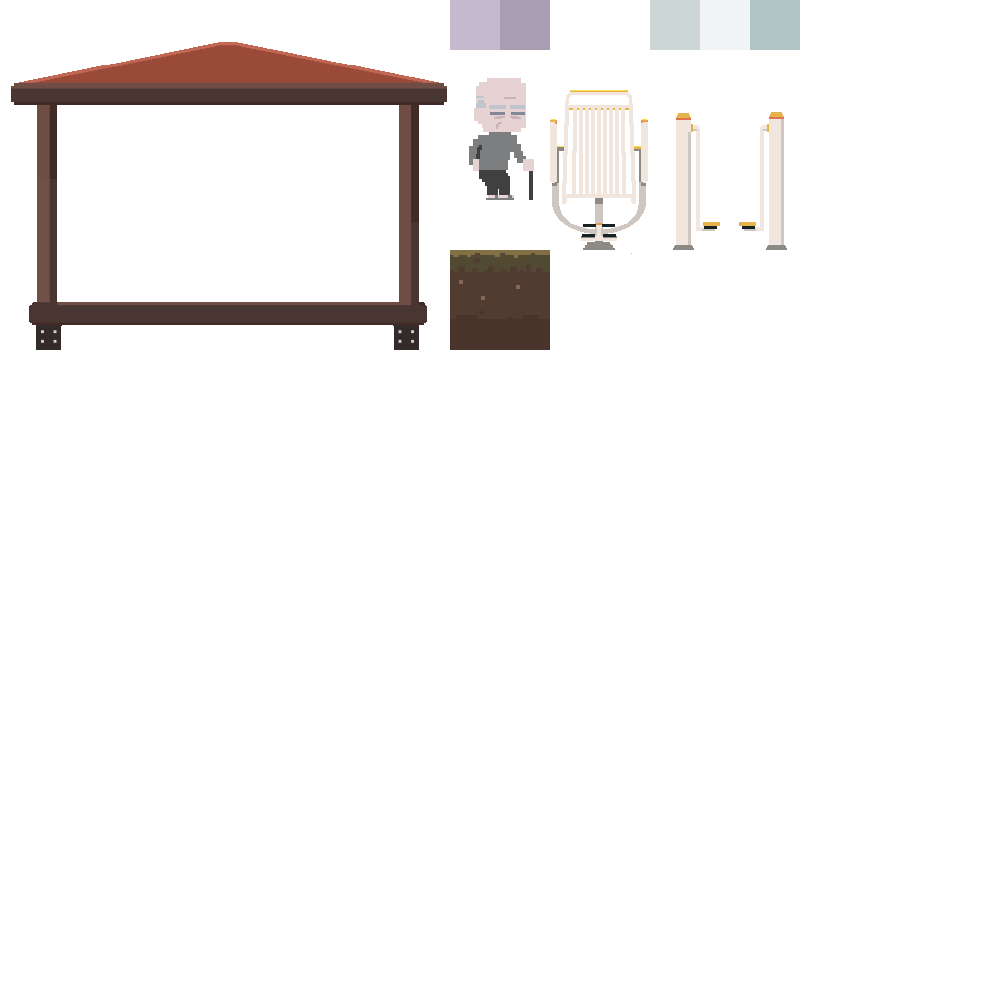
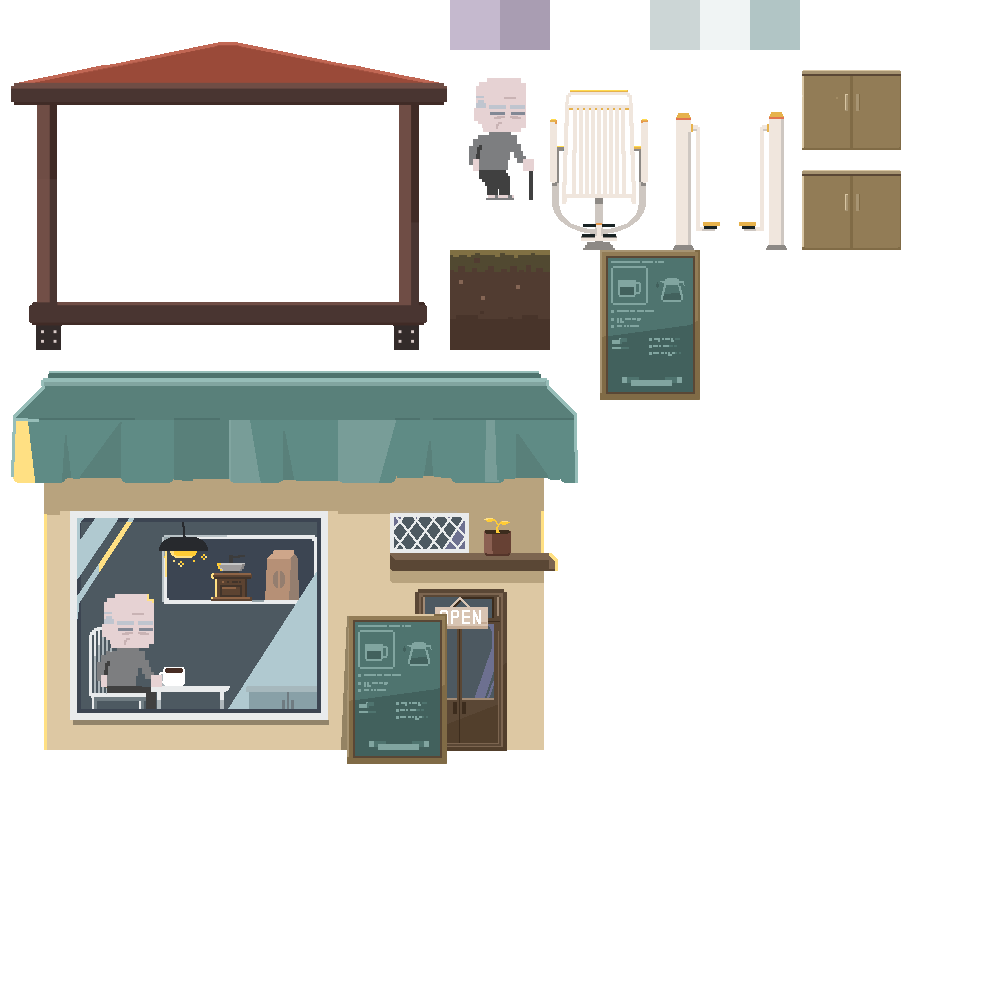
stage2 npc이동모션 추가해야함

Changed region(s): [[0.0, 0.372, 0.589, 0.775], [0.775, 0.062, 0.899, 0.248], [0.589, 0.248, 0.713, 0.403]]

diff --git a/assets/js/stages/SecondStage.js b/assets/js/stages/SecondStage.js
@@ -46,9 +46,17 @@ export default class SecondStage extends Phaser.Scene {
         this.worldLayer = map.createLayer("background", tileset, 0, 0);// Parameters: layer name (or index) from Tiled, tileset, x, y
         this.deco = map.createLayer("deco", tileset, 0, 0);
 
-        /*** npc_old 불러오기 ***/ 
-        this.npc_old = this.add.image(550,280,'npc7').setOrigin(0,0);
-        this.npc_old.setInteractive();
+        /*** 카페 이미지 불러오기 (코드 실행 후 나오는 카페) */
+        this.cafe = this.add.image(447,114,'cafe').setOrigin(0,0)
+        this.cafe.setVisible(false);
+
+
+        /*** npc 불러오기 ***/ 
+        this.npc = this.add.image(850,380,'npc7').setOrigin(0,0);
+      //  this.npc_old.setVisible(false);
+        this.npc.setInteractive();
+        this.npc_hot = this.add.image(750,380,'npc_hot').setOrigin(0,0);
+        this.npc_cold = this.add.image(650,380,'npc_cold').setOrigin(0,0);
 
         /***스폰 포인트 설정하기 locate spawn point***/
         const spawnPoint = map.findObject("spawn", obj => obj.name === "spawn_point");
@@ -79,7 +87,7 @@ export default class SecondStage extends Phaser.Scene {
             hideOnComplete: true
         });
         
-        this.exclamMark = this.add.sprite( 390, 220, 'exp_exclam', 0);
+        this.exclamMark = this.add.sprite( 550, 320, 'exp_exclam', 0);
         this.exclamMark.setVisible(false);
 
         /*** 명령창 불러오기 ***/
@@ -122,19 +130,30 @@ export default class SecondStage extends Phaser.Scene {
 
     update() {
         this.contenttext = 
-            "#include <stdio.h> \n int main(){ \n\nint myage = 29; if () \n}" 
+            "2_#include <stdio.h> \n\nint main(){ \n\n  int Temp = 45;\n  if (Temp>30){\n" +
+            "    printf(\"더워요\");\n  }\n" + //코드조각 
+         //   "  else if (Temp>20){\n" +
+         //   "    printf(\"적당해요\");\n  }\n" + //코드조각
+            "  else {\n" + 
+            "    printf(\"추워요\");\n  }\n}" //코드조각
         
-        //정답일시, 나중에 this.out == "25" 이케 바꿔야함.
-        if (this.out == "#include <stdio.h> \n int main(){ \n\nint myage = 29; if () \n}"){
-            console.log("===stage2 클리어!===");
+        //실제로는 2가지에 나눠서 쨔아함! ("더워요", "추워요")
+        if (this.out == "1_#include <stdio.h> \n\nint main(){ \n\n  int Temp = 45;\n  if (Temp>30){\n    printf(\"더워요\");\n  }\n  else {\n    printf(\"추워요\");\n  }\n}"){
+            console.log("===stage2 성공===");
             this.out = "";
-            this.exclamMark.setVisible(true);
-            this.exclamMark.play('exclam');
-
+            this.cafe.setVisible(true);
+            this.cameras.main.fadeIn(1000,0,0,0);
+            ////할아버지 걸어나오는 모션
+            this.stage2_4();  
+        }
+        else if (this.out == "2_#include <stdio.h> \n\nint main(){ \n\n  int Temp = 45;\n  if (Temp>30){\n    printf(\"더워요\");\n  }\n  else {\n    printf(\"추워요\");\n  }\n}"){
+            console.log("===stage2 실패===");
+            this.out = "";
+            this.cafe.setVisible(true);
             this.cameras.main.fadeIn(1000,0,0,0);
             //할아버지 걸어나오는 모션
-           // this.stage2_3();
-            
+            this.stage2_3(); 
+       
         }
 
         this.player.update();
@@ -171,7 +190,7 @@ export default class SecondStage extends Phaser.Scene {
             .load(this.dialog.stage2_1, this.dialog)
             .start();
             seq.on('complete', () => {
-                this.npc_old.setFlipX(true);
+           //     this.npc.setFlipX(true);
                 this.exclamMark.setVisible(true);
                 this.exclamMark.play('exclam');
                 this.time.delayedCall( 1000, () => { this.stage2_2() }, [] , this);
@@ -187,6 +206,26 @@ export default class SecondStage extends Phaser.Scene {
         seq.on('complete', () => {
             this.player.playerPaused = false; //대사가 다 나오면 플레이어가 다시 움직이도록
         });     
+    }
+    stage2_3() { 
+        this.time.delayedCall( 2000, () => {  //걸어나오는 모션뒤, 2초간 멈춤
+            var seq = this.plugins.get('rexsequenceplugin').add(); 
+            this.dialog.loadTextbox(this);
+            seq
+            .load(this.dialog.stage2_3, this.dialog)
+            .start();
+            seq.on('complete', () => {
+                this.cafe.setVisible(false); //다시 할아버지 카페에 앉아있게
+                
+                });   
+            }, [], this);  
+    }
+    stage2_4() {
+        var seq = this.plugins.get('rexsequenceplugin').add();
+        this.dialog.loadTextbox(this);
+        seq
+        .load(this.dialog.stage2_4, this.dialog)
+        .start();
     }
  
 }

diff --git a/assets/js/Dialog.js b/assets/js/Dialog.js
@@ -294,9 +294,31 @@ visible(visible) {
     ['wait-click'],
     ['print', '내 부탁을 좀 들어주면 묻는 말에 대답해주지'],
     ['wait-click'],
-    ['print', '여기서 나갈려고하는데 밖에 날씨를 모르니 무슨 옷을 입어야할지 모르겠군'],
+    ['print', '여기서 나가려고하는데 무슨 옷을 입어야할지 모르겠군'],
     ['wait-click'],
     ['print', '밖에 날씨가 어떤지 좀 말해주겠나? 춥다, 덥다 이런식으로'],
+    ['wait-click'],
+    ['visible',false],
+  ]
+  stage2_3 = [
+    ['visible',true],
+    ['place', 40,10],
+    ['setFace', 0],
+    ['setFace', 3],
+    ['print', '자네! 이 옷차림은 아닌것 같은데?'],
+    ['wait-click'],
+    ['print', '다시 한번 말해주게!!!'],
+    ['wait-click'],
+    ['visible',false],
+  ]
+  stage2_4 = [
+    ['visible',true],
+    ['place', 40,10],
+    ['setFace', 3],
+    ['wait-click'],
+    ['print', '그래 이거야!'],
+    ['wait-click'],
+    ['print', '이제 코딩지옥에 대해 설명해주지 솰라솰라~~ '],
     ['wait-click'],
     ['visible',false],
   ]
@@ -337,6 +359,7 @@ visible(visible) {
     ['visible',true],
     ['place', 40,10],
     ['setFace', 3],
+    ['wait-click'],
     ['print', '세상에! 진짜 해냈구나! '],
     ['wait-click'],
     ['print', '고마워! 코드조각은 너 가져'],

diff --git a/assets/js/Start.js b/assets/js/Start.js
@@ -107,8 +107,15 @@ class Start extends Phaser.Scene {
 
     /** 2번째 스테이지 타일 **/
       this.load.image("stage2_tiles", "./assets/images/stage2/map_stage2.png");
+    
     /** 2번째 스테이지의 npc 로드 **/
       this.load.image("npc7", "./assets/images/npc/npc7.png");
+      this.load.image("npc_hot", "./assets/images/stage2/npc_hot.png");
+      this.load.image("npc_cold", "./assets/images/stage2/npc_cold.png");
+    
+    /** 2번째 스테이지 이미지 로드 **/
+      this.load.image("cafe", "./assets/images/stage2/cafe.png");
+
     /** 3번째 스테이지의 npc 로드 **/
       this.load.image("npc_chef", "./assets/images/npc/npc1.png");
       this.load.image("stage3_tiles", "./assets/images/stage3/map_stage3.png");
